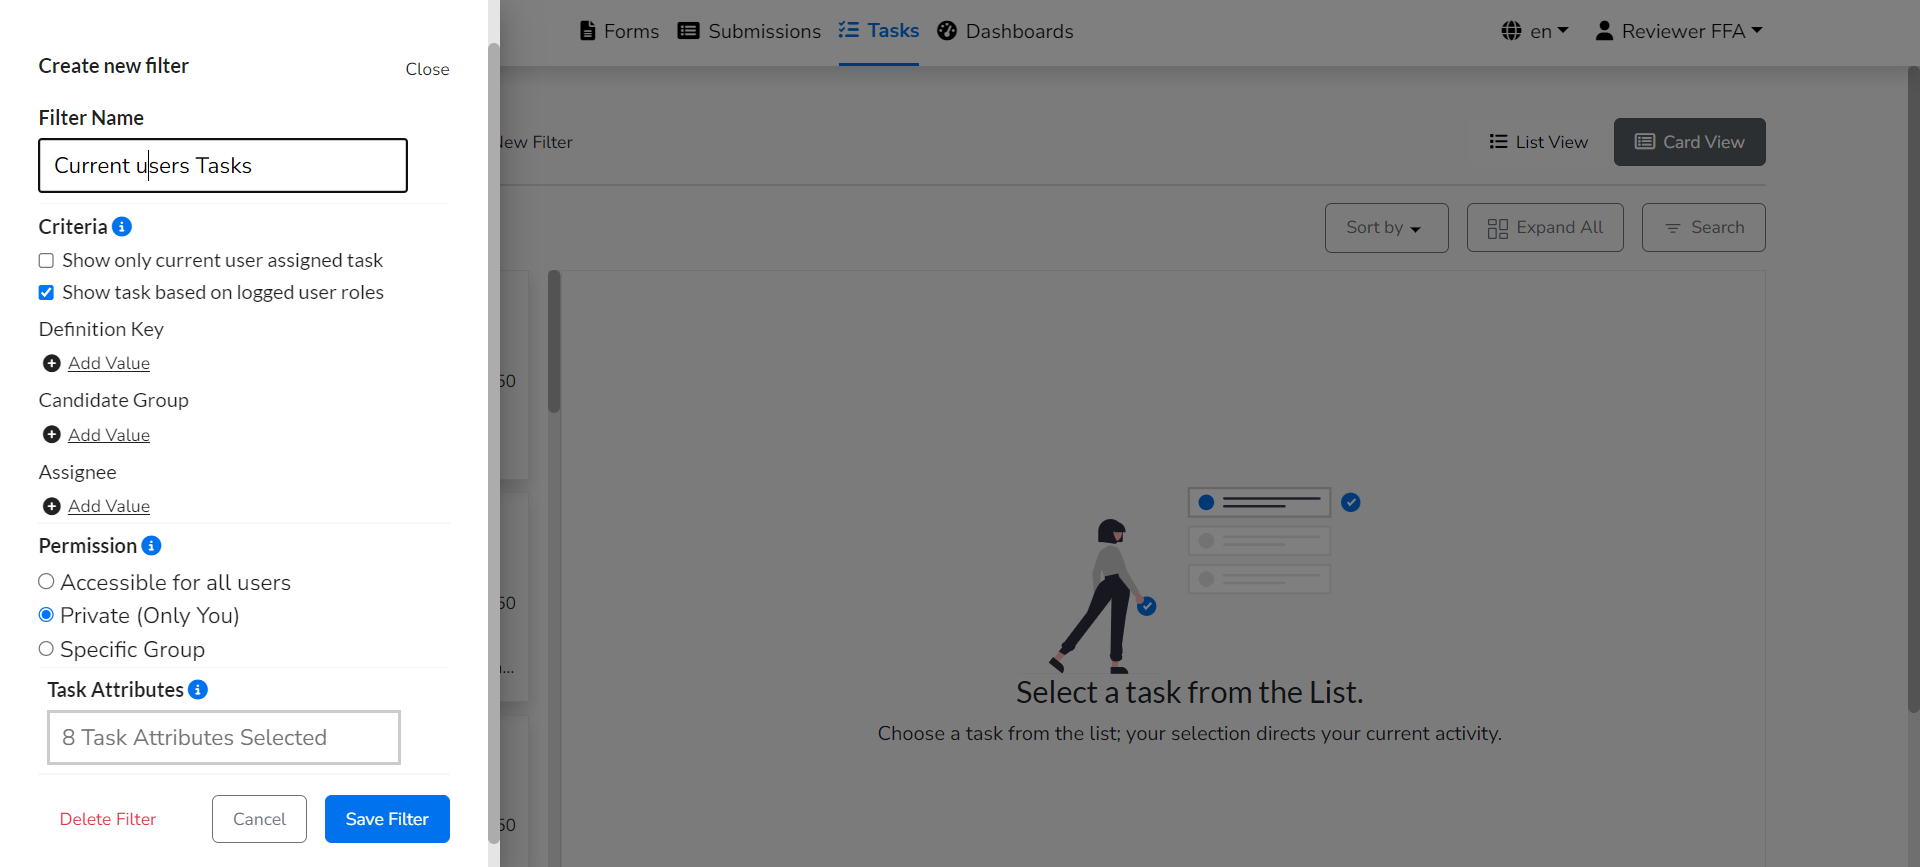
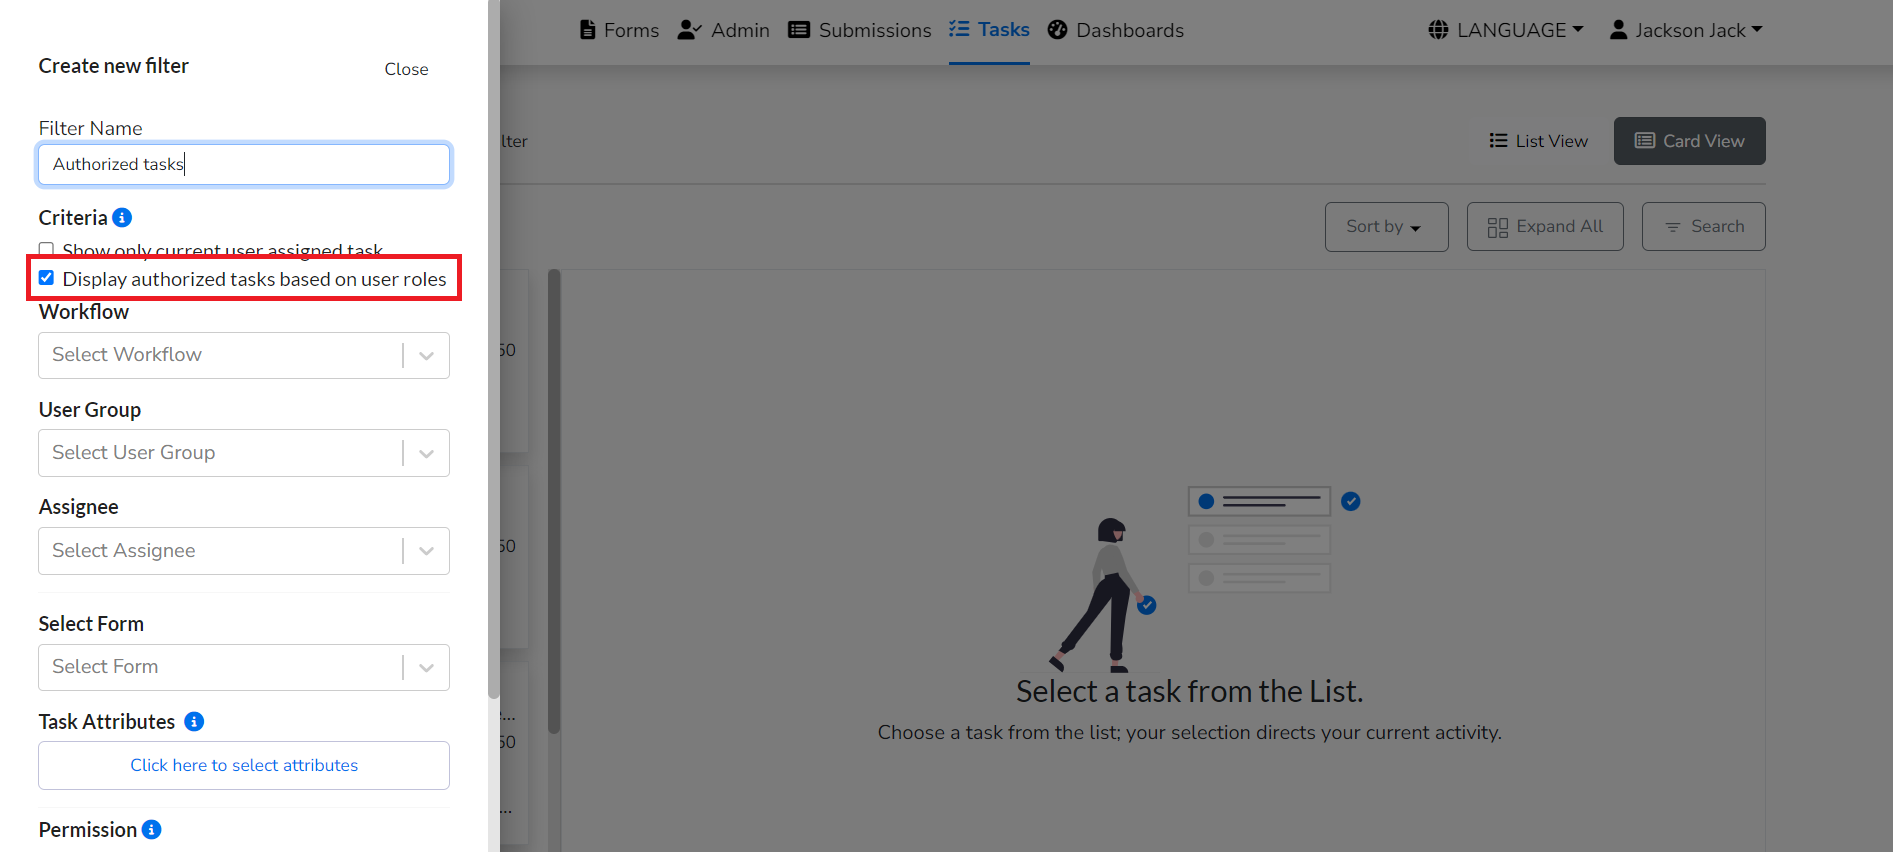
Updated documents: task filter & task variables

diff --git a/bpm_abstraction.html b/bpm_abstraction.html
@@ -96,7 +96,8 @@
 
                                 <p>Previously, relying on Camunda for task filters required users to log in, but with
                                     the BPM Abstraction
-                                    feature, they can now easily generate filters directly from the Task page. Let's
+                                    feature, they can now easily generate filters directly from formsflow.ai Task page
+                                    itself. Let's
                                     walk through creating a
                                     new filter.
                                 </p>
@@ -137,55 +138,45 @@
                                     <br>
                                     <p><img src="./assets/images/Taskfilters/mytask2.png" alt="image" width="1000"></p>
                                     <b>
-                                        <li>Show task based on logged user roles :</li>
+                                        <li>Display authorized tasks based on user roles :</li>
                                     </b>
 
-                                    This filter is based on user roles, allowing the system to dynamically showcase
-                                    tasks based on the
-                                    specific roles assigned to the logged-in user. For instance, if a user holds a
-                                    reviewer role, the filter
-                                    will exclusively present tasks designated for reviewer role users.
+                                    This criteria is based on user roles and is visible exclusively to users with an
+                                    admin role. Users with other roles won't have access. Admin users can toggle this
+                                    field on or off. By default, this criteria will be true for all users.
                                     <br><br>
                                     <p><img src="./assets/images/Taskfilters/current_usertask1.png" alt="image"
                                             width="1000"></p> <br>
                                     <p><img src="./assets/images/Taskfilters/current_usertask2.png" alt="image"
                                             width="1000"></p>
                                     <b>
-                                        <li>Definition Key :</li>
+                                        <li>workflow :</li>
                                     </b>
                                     This specific criteria allows users to display tasks according to the specified
-                                    process definition key,
-                                    which basically represents the name of the workflow.
-                                    Users can easily extract the workflow name from the designer login and enter it into
-                                    the filter,
-                                    resulting in the display of all tasks linked with that specific definition key.
+                                    workflow. Users can easily select the workflow name from the provided list,
+                                    resulting in the display of all tasks linked with that specific workflow.
                                     <br><br>
-                                    <p><img src="./assets/images/Taskfilters/definition_key.png" alt="image"
-                                            width="1000"></p> <br>
-                                    <p><img src="./assets/images/Taskfilters/definiton_key2.png" alt="image"
-                                            width="1000"></p><br>
-                                    <p><img src="./assets/images/Taskfilters/definiton_key3.png" alt="image"
-                                            width="1000"></p><br>
+                                    <p><img src="./assets/images/Taskfilters/workflow1.png" alt="image" width="1000">
+                                    </p> <br>
+                                    <p><img src="./assets/images/Taskfilters/workflow2.png" alt="image" width="1000">
+                                    </p><br>
                                     <p><b>Note:</b>This filter has the advantage of supporting the like operator, which
                                         allows users to
                                         input only a portion of the defining key, hence increasing flexibility and user
                                         comfort.
                                     </p>
                                     <b>
-                                        <li>Candidate Group :</li>
+                                        <li>User Group :</li>
                                     </b>
-                                    The candidate group criteria provides a more detailed approach by providing tasks
-                                    connected with a
-                                    certain candidate group. For instance, if the candidate group is defined as
+                                    The user group criteria provides a more detailed approach by providing tasks
+                                    connected with a certain user group. For instance, if the user group is defined as
                                     <b>formsflow/formsflow-reviewer/clerk</b> , the filter will display all tasks
-                                    related to that specific
-                                    group. This functionality is especially useful when tasks are arranged according to
-                                    certain business
-                                    processes or responsibilities.
+                                    related to that specific group. This functionality is especially useful when tasks
+                                    are arranged according to certain business processes or responsibilities.
                                     <br><br>
-                                    <p><img src="./assets/images/Taskfilters/candidategp1.png" alt="image" width="1000">
+                                    <p><img src="./assets/images/Taskfilters/usergp1.png" alt="image" width="1000">
                                     </p><br>
-                                    <p><img src="./assets/images/Taskfilters/candidategp2.png" alt="image" width="1000">
+                                    <p><img src="./assets/images/Taskfilters/usergp2.png" alt="image" width="1000">
                                     </p><br>
                                     <b>
                                         <li>Assignee :</li>
@@ -199,14 +190,23 @@
                                     approach in situations where tasks are precisely assigned to people with designated
                                     roles or expertise.
                                     <br><br>
-                                    <p><img src="./assets/images/Taskfilters/assignee1.png" alt="image" width="1000">
+                                    <p><img src="./assets/images/Taskfilters/assignee.png" alt="image" width="1000">
                                     </p><br>
-                                    <p><img src="./assets/images/Taskfilters/assignee2.png" alt="image" width="1000">
+                                    <b>
+                                        <li>Select Form :</li>
+                                    </b>
+                                    This option allows the user to select the required form specific to the task, so
+                                    that the task variables linked with the form will be accessible in the Task
+                                    Attributes section.
+                                    <br><br>
+                                    <p><img src="./assets/images/Taskfilters/selectForm.png" alt="image" width="1000">
                                     </p><br>
 
                                 </ol>
+
                                 <h3>Permission</h3>
-                                Users can choose any of the below Permissions while creating a filter. Private (Only You) will be
+                                Users can choose any of the below Permissions while creating a filter. Private (Only
+                                You) will be
                                 selected by default.
                                 <ol>
                                     <b>
@@ -226,17 +226,18 @@
                                     With this option, filters can be shared only with a predefined group of users,
                                     providing selective
                                     access based on group membership.
-                                   
+
                                 </ol>
                                 <h3>Task attributes</h3>
-                                Choose task attributes from the list, and they will appear in the task list view.
+                                All task variables from the selected form and static task attributes will be listed
+                                here.Choose the required task attributes from the list, and they will appear in the task
+                                list view.
                                 <br><br>
-                                <p><img src="./assets/images/Taskfilters/taskattributes.png" alt="image" width="1000">
+                                <p><img src="./assets/images/Taskfilters/taskAttribute.png" alt="image" width="1000">
                                 </p><br>
-                                <p><img src="./assets/images/Taskfilters/taskattributes2.png" alt="image" width="1000">
+                                <p><img src="./assets/images/Taskfilters/taskListView.png" alt="image" width="1000">
                                 </p><br>
-                                <p><img src="./assets/images/Taskfilters/taskattributes3.png" alt="image" width="1000">
-                                </p><br>
+
 
                                 <h3>Task
                                     Variables

diff --git a/task_variables.html b/task_variables.html
@@ -96,53 +96,38 @@
                             BPMN variables are the form fields that you added to the form. Users can select form
                             fields that they want to display in the task list.
                             <ol>
-                                <li>Create a new form or Edit an already created form.</li><br>
-                                <img src="./assets/images/Screenshot 2022-05-12 160427.png" width="1000"
+                                <b><li>Create a new form or Edit an already created form</li><br>
+                                <img src="./assets/images/task_variables/editForm.png" width="1000"
                                     height="500"><br><br>
-                                <li>Associate the form with the workflow. </li><br>
-                                <img src="./assets/images/Screenshot 2022-05-12 160526.png" width="1000"
+                                <li>Associate the form with the workflow</li><br>
+                                <img src="./assets/images/task_variables/associate_workflow.png" width="1000"
                                     height="500"><br><br>
-                                <li>Ensure the workflow has included FormBPMFilteredDataPipelineListener. </li><br>
-                                <img src="./assets/images/Screenshot 2022-05-12 165140.png" width="1000"
+                                <li>Ensure the workflow has included FormBPMFilteredDataPipelineListener</li><br>
+                                <img src="./assets/images/task_variables/filtered_listener.png" width="1000"
                                     height="500"><br><br>
                                 <li>Add task filter variables to the form. The FormBPMFilteredDataPipelineListener
                                     copies
-                                    the added task variable keys from form (formio) to Camunda variables.</li><br>
-                                <img src="./assets/images/Screenshot 2022-05-12 161159.png" width="1000"
+                                    the added task variable keys from form (formio) to Camunda variables</li>
+                                <ul><li>Select all fields:</li></b>
+                                    Select the checkbox to choose all fields from the form as task variables.<br><br>
+                                <img src="./assets/images/task_variables/all_variables.png" width="1000"
                                     height="500"><br><br>
-                                <strong>Note:</strong> As of now only key is used.Label and Show in list are
-                                included for
-                                future purpose.<br>
-                                <li>Click the add button, the selected key is added as a task variable. We can add
-                                    more
-                                    variables from the form as task variables and also edit the task variable
-                                    already added.
+                                    <b><li>Select specific fields:</li></b>
+                                    Deselect the checkbox and choose only the necessary fields from the list for task variables.<br><br>
+                                <img src="./assets/images/task_variables/specific_fields.png" width="1000"
+                                    height="500"></ul><br><br>    
+                                
+                                <b><li>Click the edit label button to update the label if required
                                 </li><br>
-                                <img src="./assets/images/Screenshot 2022-05-12 162111.png" width="1000"
+                                <img src="./assets/images/task_variables/edit_label.png" width="1000"
                                     height="500"><br><br>
                                 
-                                <li> Add the task variables to edit filter in Camunda tasklist.</li><br>
-                                <img src="./assets/images/Screenshot 2022-05-12 162652.png" width="1000"
+                                    <li>Submit new application with this form</li><br>
+                                <img src="./assets/images/task_variables/form_submit.png" width="1000"
                                     height="500"><br><br>
-                                    <li>Submit new application with this form.</li><br>
-                                <img src="./assets/images/Screenshot 2022-05-12 162340.png" width="1000"
+                                <li>Now these variables are displayed in user's tasklist, you can select any variables from the list </li></b><br>
+                                <img src="./assets/images/task_variables/taskAttr_list.png" width="1000"
                                     height="500"><br><br>
-                                <li>Now these variables are displayed in user's tasklist.</li><br>
-                                <img src="./assets/images/Screenshot 2022-05-12 162839.png" width="1000"
-                                    height="500"><br><br>
-                                    <li> If you want to search for a taskvariable, select Process Variables from the drop down.</li>
-                                    <img src="./assets/images/Screenshot 2022-09-12 130212.png"  width="1000"
-                                    height="500"><br><br>
-                                    <ul>
-                                        <li>Now select any task variable from the list.</li>
-                                    
-                                    <img src="./assets/images/Screenshot 2022-09-12 130437.png" width="1000"
-                                    height="500"><br><br>
-                                    <li>Here you can enter the data and filter task from the tasklist.</li>
-                                    <img src="./assets/images/Screenshot 2022-09-12 130659.png" width="1000"
-                                    height="500"><br><br>
-                                </ul>
-                
                             </ol>
                         </div>
                         </section>
